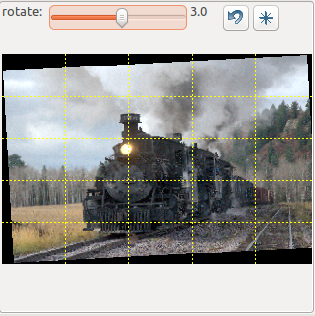
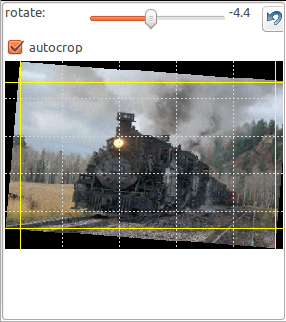
doc updates

diff --git a/doc/workflow.html b/doc/workflow.html
@@ -1,52 +1,56 @@
 <html><body>
 
 <h3 id="Workflow">How to use rawproc</h3>
-<p>Basically, you open an image, apply one or more tools to change it, then save it.  You can apply tools in any order you wish, but there are some 
-considerations to consider:</p>
-
-<ul>
-
-<li>Color Management, or Not?  You need to make this choice before you open your image, as it's set then and not changeable until you open another image.  In
+<p>Basically, you open an image, apply one or more tools to change it, then save it.  You can apply tools in any order you wish, but you first need to 
+decide on color management.  You need to make this choice before you open your image, as it's set then and not changeable until you open another image.  In
 the configuration parameters, this is done with input.cms; 1=on, 0=off.  Here
-are the key considerations in rawproc for each:</li><br>
+are the key considerations in rawproc for each:</p><br><br>
 
 	<ul>
 
-	<li>input.cms=1: You need to specify profiles for display (display.cms.displayprofile) and output (output.*.cms.profile).  Your input image is (at present) assumed to contain 
-an ICC profile representative of its color space.  For raw images, you need to specify both an output colorspace (output_color= or colorspace=) and gamma (there are three ways do do gamma)
-as LibRaw delivers the image with a profile, except if output_color=0 (linear).  Here's a good parameters string to start with a prophoto working space:
-<pre>input.raw.parameters=colorspace=prophoto;gamma=prophoto</pre><br><br>
-rawproc has internal profiles for prophoto, srgb, wide, and adobe; srgb is somewhat okay for 
-the display profile if you don't have a calibrated profile for your monitor, but you really need to do a calibrated profile if you want color management to work for you.
-For output, srgb is appropriate for JPEGs to be displayed; for TIFFs, consider saving in one of the working profiles, preferrably the one you opened the image with, for subsequent
-editing in, say, GIMP.  You can also choose to specify a .icc file for display or output; Elle Stone's profiles work well: https://github.com/ellelstone/elles_icc_profiles</li><br>
+	<li>input.cms=1: Firstly, you should set cms.profilepath to the directory where you keep your profile files.  Otherwise, when you specify a 
+profile you'll have to use its absolute path.  Then, you need to specify profiles for display (display.cms.displayprofile) and output (output.*.cms.profile). 
+Your input image is assumed to contain an ICC profile representative of its color space.  To get there, you need to do one of the following:<br><br>
 
-	<li>input.cms=0: If you choose to not use color management, you need to read the input image already converted to something that looks decent on the screen.
-That's likely to  be srgb, which you can probably assume is already in effect for JPEGs.  If you're opening a raw file, you need to set that prior to opening, like this: 
-<pre>input.raw.parameters=colorspace=srgb;gamma=srgb</pre><br><br>
-The image will be displayed and saved without color tranformation, and no profile will be inserted in the output image.</li><br>
+		<ul>
+			<li>Use input.raw.libraw.colorspace and input.raw.libraw.gamma to compel libraw's dcraw processing to deliver an input image with an assigned output profile and gamma scaling.  You can pick from one of the dcraw -o selections by name, and gamma has a couple of mnemonic assignments as well as the opportunity to specify the power and toe, just like dcraw -g.
+			</li><br>
+
+			<li>Use input.raw.libraw.cameraprofile to assign your calibrated camera profile to the delivered image.  To make this work, you need to set input.raw.libraw.colorspace=raw and input.raw.libraw.gamma=linear, otherwise their settings will modify the delivered image. 
+			</li><br>
+		</ul>
+
+If you're happy with using the assigned profile in the input image for processing, you can proceed from there.  If, on the other hand, you want to assign a proper working profile, the first tool you need to insert in the chain is colorspace, to convert the image to the chosen working profile.
+
+
+<br><br>For output, the appropriate output.*.cms.profile can be set to a .icc you want rawproc to convert your image to upon saving, "*" is either "jpeg" or 
+ "tiff" as of 0.6.  If an output.*.cms.profile is not specified, the image is saved with the profile that followed it through processing.
+
+<br><br>For working and output profiles, Elle Stone's profiles work well: https://github.com/ellelstone/elles_icc_profiles.</li><br>
+
+	<li>input.cms=0: If you choose to not use color management, the input image will be displayed and saved without color tranformation, and no profile will be inserted in the output image.</li><br>
 
 	</ul>
 
+<p>After opening an image, you now just apply tools from the Add menu, in whatever order you like.  As you add tools, they are added to the commands pane  and the corresponding parameters are displayed in the parameters pane.  You can select a previously added tool by clicking on it in the commands pane, and it's parameters then be available for working.  Note the checkbox beside each tool; this is for selecting the displayed image in the main panel.  With this, you can do things like keep the last tool's image in the main pane and go back to a previous tool to work, and each change will re-do the processing chain from the worked tool to the last one, displyaing the cumulative result.</p>
 
-<li>After opening a camera raw image, you'll notice that the tones usually don't use the entire tone range from black to white.  Add a black/white point
-tool and adjust the sliders so the image tone range expands to fill the available range in the histogram.  I use these tools so frequently on raw images 
-that I hard-coded the default gamma to 2.2 and made an autocorrect option for the black/white point tool, where it'll read the histogram and pick appropriate 
-black and white point settings automatically.  You can turn it off in the config file.  So, when I open a camera raw, I just apply gamma then black/white point 
-without thinking about it, and go from there.  Usually, the third tool is a curve, a very flexible tool for modifying the tone range for contrast, etc.<br></li>
+<p>Each time you add a tool, another copy of the worked image is created from the previous tool, and that forms the basis for work done with that tool.  So, as you add tools, you're also building a chain of images.  So, by design, rawproc is a memory hog.  But the goal in that is to allow interactivity with the processing chain so the effect of the processing chain can be observed with a minimum of re-processing. As of 0.6, this mostly works well; in future builds, the management of "dirty" flags will be further optimized to reduce unnecessary re-processing when a tool or its image are selected.</p>
 
-<li>Some tools are slow.  Particularly denoise, followed by sharpen.  I usually don't use either until after I resize the image for web posting, and they 
-both run more quickly on fewer pixels</li><br>
+<p>Some tools are slow.  Particularly denoise, followed by sharpen.  I usually don't use either until after I resize the image for web posting, and they 
+both run more quickly on fewer pixels.  A much faster, and very high-quality denoise is found in the libraw/dcraw wavelet denoise, applied image opening. 
+You enable this in the properties with input.raw.libraw.threshold or input.raw.libraw.wavelet_denoise, with a value from 0-1000.  Try 500 to start, then 
+use Re-Open to try stronger/weaker values to taste.</p>
 
-<li>If you're going to rotate the image to straighten it out and crop for composition, do the rotate first, then when you crop you'll also be taking care of 
-the black irregular borders around the rotated image.</li><br>
-
-</ul>
-
-<p>When you save an image, rawproc saves the list of applied tools and their parameters in the image metadata.  You can re-apply these tools to the original 
+<p>When you save an image, rawproc saves the image from the last tool in the chain, and a list of the applied tools and their parameters in the image metadata.  You can re-apply these tools to the original 
 image by using Open Source to open the saved image; instead of opening the saved image, rawproc will open the original image and re-apply each tool in order, 
-with the saved parameters.  You can change around the tools and re-save to the same image, or to another one by changing the file name.  rawproc doesn't have 
-a Save As file option by design; you have to pick the save file name each time.</p>
+with the saved parameters from the metadata.  You can change around the tools and re-save to the same image, or to another one by changing the file name.</p>
+
+<p>Open Source has a couple of properties to aid with directory organization,   input.opensource.parentdirectory and input.opensource.subdirectory.  When a processing chain is saved to an output image's metadata, the input file name is not saved with a path.  input.opensource.parentdirectory is a switch, set it to 1 and if rawproc doesn't find the original image in the same directory as the selected image, it'll look in the parent directory.  Correspondingly, input.opensource.subdirectory is an actual directory name to be used if the original image isn't found in either the current or parent directories. I use 
+the input.opensource.subdirectory, set to "NEFs", and I store my raws in that subdirectory, with the processed images going in the upper directory.  So, 
+when I Open Source a jpeg in the upper directory, the original raw is found in the NEFs subdirectory.</p>
+
+<p>rawproc doesn't have a Save As file option by design; you have to pick the save file name each time.  It will prompt you to continue if it is saving over 
+a previous file, but that's the only protection you have from overwriting files.</p>
 
 <p>rawproc's name belies its flexibility; it can be used to edit any JPEG or TIFF image.  Raw or otherwise, once you open an image, it's just an array
 of pixels...</p>
@@ -58,6 +62,12 @@ plenty of room for tone manipulation to avoid posterization.</p>
 
 <p>Having a desktop shortcut to rawproc (selectable option in the Windows install package) is handy for quick opening of images; with your file explorer, you 
 can review images and open the one you want to edit by dragging it to the rawproc desktop icon.</p>
+
+<p>Almost all of the rawproc tools are multithreaded (as of 0.6, still need to work on colorspace). The usage of your processor's cores can be specifically controlled with the tool.*.cores parameter, where "*" is the tool name.  "0" tells rawproc to use all available cores, "n" tells rawproc to use a specific 
+number of cores, and "-N" tells rawproc to use all the available cores -N.  The latter is useful for saving one or more cores for interactive processing, 
+so you could go and read email while rawproc does denoise, for instance.  Each tool also has a .log parameter, set to 1 will compel rawproc to write a log 
+entry every time that tool does its processing.  That log entry includes the number of cores used for that activity.  Both of these parameters are read each 
+time the tool does its processing, so they can be changed on the fly.  Oh, logging also depends on log.filename being set to a filename.</p>
 
 <p>The configuration file contains a boatload of settings for you to tweak to your convenience.  rawproc will first look for a configuration file in its
 current working directory; if one is not found there, it looks in the operating system default user

diff --git a/doc/layout.html b/doc/layout.html
@@ -2,7 +2,7 @@
 
 <h2 id="LayoftherawprocLand">Lay of the rawproc Land</h2>
 
-<p>When started, rawproc will present you with a window containing three panes:</p>
+<p>When started, rawproc will present you with a window containing four panes:</p>
 
 <ol>
 	<li>Display: The right-hand window, contains the image being manipulated.  There is also a thumbnail 
@@ -24,7 +24,8 @@
 	<li>Histogram: Standard RGB histogram.  It can be zoomed in with the mouse thumbwheel, and panned
 	by dragging with the mouse. The default scale is 256 bins; this can be changed with the 
 	histogram.scale parameter in the Properties list, for instance, to set 65536 for sixteen-bit 
-	scaling.</li><br>
+	scaling. Note that the default of 256 supports the curve tool, which works on a 0-255 range. 
+	if you change the histogram tool scaling, the curve tool will still work at 0-255.</li><br>
 
 	<li>Parameters: The bottom-left-hand window, contains the tools for changing the tool 
 	selected in the Commands pane.  These are mostly sliders that you can manipulate with either

diff --git a/doc/rotate.html b/doc/rotate.html
@@ -2,11 +2,11 @@
 
 <h3 id="Rotate">Rotate</h3>
 <p>Rotates the image, for straightening the horizon or a dominant vertical line.  The slider rotates the preview
-image in .1 degree increments; use the star button to apply the rotation to the full image.  Note the black fill
-where the rotated image does not fill the rectangle; if you plan to crop the image, save that tool for after 
-rotation to also remove the black fill.</p>
+image in .1 degree increments. </p>
+<p>The autocrop checkbox enables automatic post-rotate cropping of the image to maximum usable image; the preview shows the 
+boundaries on the uncropped rotated image.</p> 
 <p align=center><img src=rotate.png></p>
-<p>Note: rotate is implemented using the FreeImage routine, so it is not multithreaded, and will run slower than other tools.</p>
+
 
 
 </body></html>

diff --git a/doc/crop.html b/doc/crop.html
@@ -7,7 +7,6 @@ corner points adjusts the crop window to suit; dragging in the crop rectangle mo
 <p>The northwest and southeast control points have two different behaviors; the northwest point (yellow rectangle) maintains 
 the original image aspect ratio; the southeast point (red circle) allows free-form change of the crop box.  You switch 
 from one to the other simply by dragging the appropriate control point.</p>
-<p>Note: crop is implemented using the FreeImage routine, so it is not multithreaded, and will run slower than other tools.</p>
 <p>Tip: Drag the Commands box out of it's docked position to make it bigger for more precise control of the crop window.</p>
 
 

diff --git a/doc/curve.html b/doc/curve.html
@@ -15,6 +15,7 @@ need to manipulate more than one channel, add a curve tool for each channel.</p>
 you could do that without resorting to the black/white point tool.</p>
 <p>You can add as many curve tools to the command list as you desire.  Sometimes, doing something like using a curve 
 to adjust contrast doesn't leave enough slope to do any other manipulations; just add another curve tool and go from there.</p>
-</p>
+<p>Note that, while the curve tool works on a 0-255 range, the actual processing is with floating point coordinates, so the 
+precision is appropriate to the floating point image structure.</p>
 
 </body></html>

diff --git a/doc/highlight.html b/doc/highlight.html
@@ -7,6 +7,8 @@ the sliders adjust the threshold up and down the default curve and the adjust po
 affect the highlight values:</p>
 <p align=center><table><tr><td><img src=highlight-curve1.png></td><td></img><img src=highlight-curve2.png></img></td></tr></table></p>
 <p>The adjust point will maintain a position equidistant between the threshold and the upper endpoint.</p>
+<p>Note there is a point on the other side of the threshold point; this constrains the changes in the curve 
+to the upper side of the threshold.</p>
 
 
 </body></html>

diff --git a/doc/shadow.html b/doc/shadow.html
@@ -7,6 +7,8 @@ the sliders adjust the threshold up and down the default curve and the adjust po
 affect the shadow values:</p>
 <p align=center><table><tr><td><img src=shadow-curve1.png></td><td></img><img src=shadow-curve2.png></img></td></tr></table></p>
 <p>The adjust point will maintain a position equidistant between the threshold and the lower endpoint.</p>
+<p>Note there is a point on the other side of the threshold point; this constrains the changes in the curve 
+to the lower side of the threshold.</p>
 
 
 </body></html>

diff --git a/doc/resize.html b/doc/resize.html
@@ -8,7 +8,6 @@ to maintain aspect ratio.  The default rescale algorithm was selected for good r
 catmullrom and lanczos3 to see if another is preferrable.  The display image is changed when you either hit Enter 
 after changing a dimension, or selecting another algorithm</p>
 <p align=center><img src=resize.png></p>
-<p>Note: resize is implemented using the FreeImage routine, so it is not multithreaded, and will run slower than other tools.</p>
 
 
 </body></html>

diff --git a/doc/exposure.html b/doc/exposure.html
@@ -1,7 +1,7 @@
 <html><body>
 
 <h3 id="Exposure">Exposure</h3>
-<p>Use to approximate adjustment of exposure.  The adjustment is in EV, where each whole number is a stop.
+<p>Use to approximate adjustment of exposure.  The adjustment is in EV, where each whole number is a stop. The tool's range is -5/+5 stops. 
 Please note that this doesn't actually adjust the exposure, that can only be done when the image is 
 exposed in the camera.</p>
 

diff --git a/doc/main.html b/doc/main.html
@@ -1,8 +1,8 @@
 <html><body>
 
 <h1>rawproc</h1>
-<p>Version 0.6.1<br>
-9/23/2017<br>
+<p>Version 0.6.2pre<br>
+10/18/2017<br>
 This text Copyright 2017, Glenn Butcher, All Rights Reserved.<br>
 Code at https://github.com/butcherg/rawproc, licensed under the GPL V2
 </p>
